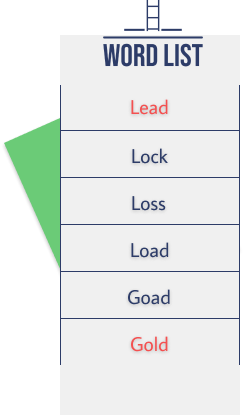
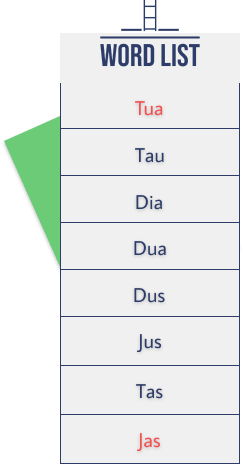
add asset

diff --git a/pygame/main.py b/pygame/main.py
@@ -211,7 +211,7 @@ for i in range(1, 16):
     select_level_x[var_x] = pos_x
     select_level_y[var_y] = pos_y
     pos_x += 140
-    select_level_button[var_button] = button.Button(select_level_x[var_x], select_level_y[var_y], select_level[var], 1.3)
+    select_level_button[var_button] = button.Button(select_level_x[var_x], select_level_y[var_y], select_level[var], 1)
     
 #BFS
 def selectLevel():
@@ -381,6 +381,11 @@ while True:
                     endWord = "Break"
                     wordList = ["Wheel", "Cheat", "Clear", "Cleat", "Bleat", "Bread", "Bleak", "Bleed", "Break"]
                     wordPath = ladderLength(beginWord, endWord, wordList)
+                elif number == 5:
+                    beginWord = "Wheat"
+                    endWord = "Break"
+                    wordList = ["Wheel", "Cheat", "Clear", "Cleat", "Bleat", "Bread", "Bleak", "Bleed", "Break"]
+                    wordPath = ladderLength(beginWord, endWord, wordList)
                 # if number == 5:
                 #     beginWord = "Lead"
                 #     endWord = "Gold"
@@ -443,24 +448,59 @@ while True:
                     number = i
                     # set_level()
                     if number == 1 :
-                        beginWord = "Lead"
-                        endWord = "Gold"
-                        wordList = ["Lock", "Loss", "Load", "Goad", "Gold"]
+                        beginWord = "Tua"
+                        endWord = "Tau"
+                        wordList = ["Tau", "Dia", "Dua", "Dus", "Jus", "Tas", "Tas", "Jas"]
                         wordPath = ladderLength(beginWord, endWord, wordList)
                     if number == 2:
-                        beginWord = "Ball"
-                        endWord = "Goat"
-                        wordList = ["Fall", "Bell", "Bail", "Belt", "Bolt", "Boat", "Goat"]
+                        beginWord = "Bola"
+                        endWord = "Duka"
+                        wordList = ["Bolu", "Boku", "Bulu", "Duku", "Buka", "Dulu", "Duka"]
                         wordPath = ladderLength(beginWord, endWord, wordList)
                     elif number == 3:
-                        beginWord = "Hand"
-                        endWord = "Font"
-                        wordList = ["Band", "Bane", "Bond", "Boat", "Fond", "Foot", "Font"]
+                        beginWord = "Hari"
+                        endWord = "Sore"
+                        wordList = ["Haru", "Dari", "Jari", "Sori", "Jadi", "Dori", "Hore", "Sore"]
                         wordPath = ladderLength(beginWord, endWord, wordList)
                     elif number == 4:
-                        beginWord = "Wheat"
-                        endWord = "Break"
-                        wordList = ["Wheel", "Cheat", "Clear", "Cleat", "Bleat", "Bread", "Bleak", "Bleed", "Break"]
+                        beginWord = "Bala"
+                        endWord = "Gila"
+                        wordList = ["Bali", "Pala", "Gali", "Jala", "Java", "Gala", "Hala", "Gila"]
+                        wordPath = ladderLength(beginWord, endWord, wordList)
+                    elif number == 5:
+                        beginWord = "Budi"
+                        endWord = "Babi"
+                        wordList = ["Buda", "Jala", "Gali", "Bada", "Badi", "Gala", "Hala", "Babi"]
+                        wordPath = ladderLength(beginWord, endWord, wordList)
+                    elif number == 6:
+                        beginWord = "Susu"
+                        endWord = "Bolu"
+                        wordList = ["Sudu", "Budu", "Badi", "Bada", "Badu", "Bala", "Balu", "Bolu"]
+                        wordPath = ladderLength(beginWord, endWord, wordList)
+                    elif number == 7:
+                        beginWord = "Sore"
+                        endWord = "Kopi"
+                        wordList = ["Sori", "Topi", "Gori", "Sopi", "Sari", "Tore", "Hore", "Kopi"]
+                        wordPath = ladderLength(beginWord, endWord, wordList)
+                    elif number == 8:
+                        beginWord = "Sahur"
+                        endWord = "Bakar"
+                        wordList = ["Sahir", "Sihir", "Sikir", "Sikil", "Sikit", "Sikat", "Sakat", "Bakat", "Bakar"]
+                        wordPath = ladderLength(beginWord, endWord, wordList)
+                    elif number == 9:
+                        beginWord = "Sakit"
+                        endWord = "Sehat"
+                        wordList = ["Sikit", "Sikat", "Sakal", "Sekar", "Sikut", "Sekat", "Sakat", "Sukar", "Sehat"]
+                        wordPath = ladderLength(beginWord, endWord, wordList)
+                    elif number == 10:
+                        beginWord = "Hutan"
+                        endWord = "Bakar"
+                        wordList = ["Kutan", "Kapan", "Katan", "Batan", "Bukan", "Batat", "Bakat", "Bukat", "Bakar"]
+                        wordPath = ladderLength(beginWord, endWord, wordList)
+                    elif number == 11:
+                        beginWord = ""
+                        endWord = "Gila"
+                        wordList = ["Bali", "Pala", "Gali", "Jala", "Java", "Gala", "Hala", "Gila"]
                         wordPath = ladderLength(beginWord, endWord, wordList)
                     count = 1
                     running = "gameplay"
